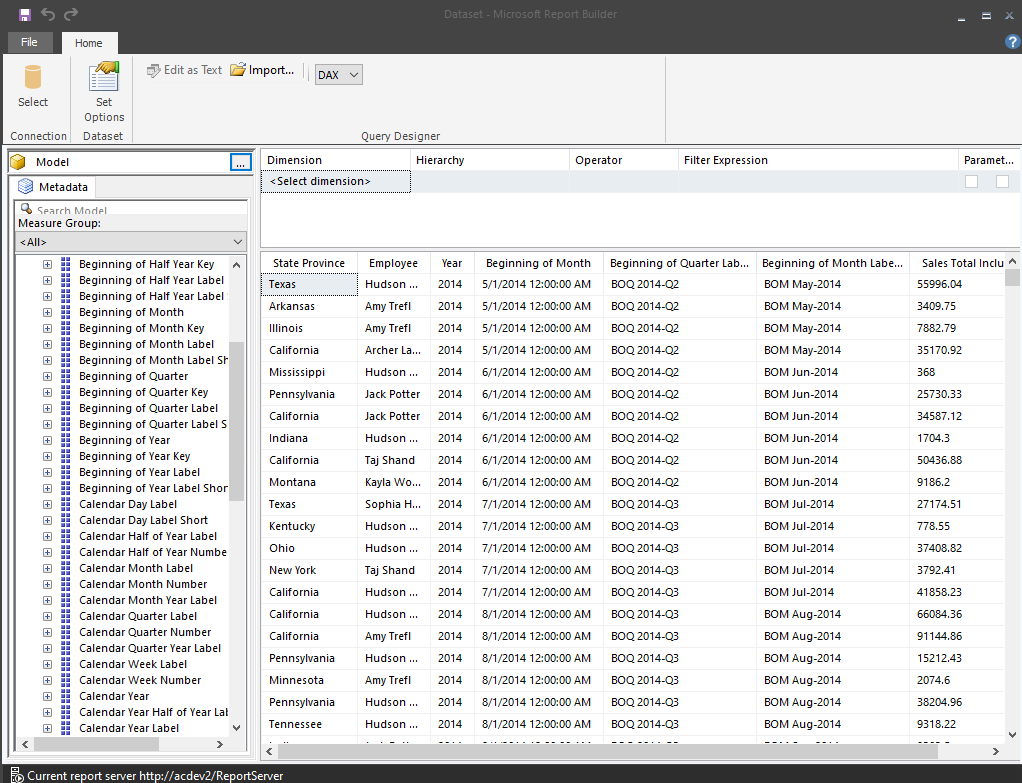
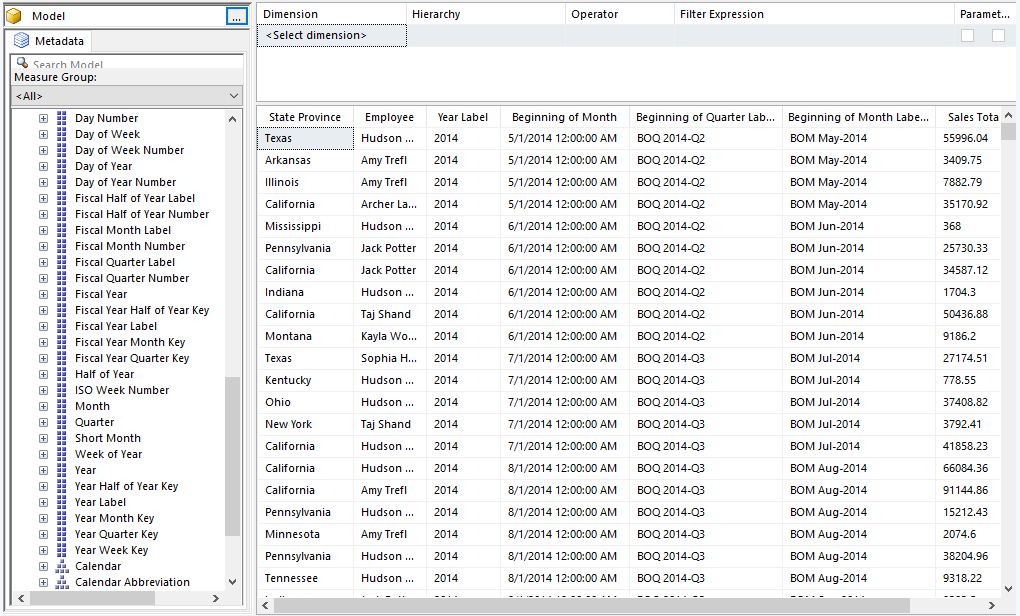
Finished Documentation (for now)

diff --git a/Dashboards/Advanced_Sales_by_Employee_State/03-Linking_Report_Components.md b/Dashboards/Advanced_Sales_by_Employee_State/03-Linking_Report_Components.md
@@ -1,0 +1,77 @@
+# Linking Report components
+
+## Introduction
+
+In this series of instructions, we'll see how to bind the controls on the report to the data that was imported in the first lesson, [01-Adding_Data.md](01-Adding_Data.md).
+
+If you don't have it open, open up the dashboard in the Mobile Report Publisher. Then, switch to the Data tab.
+
+## Selection lists
+
+Let's start with the selection lists. Click on the _Employee_ element.
+
+In the _Data Properties_ at the bottom, change the _Keys_ to **List-Employee**. Because this dataset only has one column, it is automatically populated in the box to the right.
+
+On the very right is an area, _Filter these datasets when a selection is made_. Uncheck the SimulatedTable, then put a check beside **StateEmployeeSales**. In the drop down beside it, change the value to **Employee**.
+
+Your result should look like:
+
+![Employee Selection List Properties](./../images/sales-by-state-employee-003.png)
+
+Now we'll repeat the same steps for the State selection list. Click on the State element on very left.
+
+In the Data Properties change the _Keys_ to **List-State**. Verify the column box to the right now reads **State_Province**.
+
+Finally, in the filter datasets area, uncheck the SimulatedTable, check the **StateEmployeeSales**, and verify the column beside it reads **State_Province**.
+
+## Time Navigator_
+
+Still on the data tab, click on the Time Navigator. Change the _Series for background chart_ to **StateEmployeeSales**. For the metric, make sure it is set to the **Sales_Total_Including_Tax** column.
+
+Go ahead and click the _Options_ button. At the top it will read _Filtered by_ and show Employee and State. This is what we want! But it shows how the selection list filters are connected to the time navigator.
+
+## Simple Data Grid
+
+Now click on the Simple Data Grid in the Report Elements area. Change the _Data for grid view_ to our **StateEmployeeSales** dataset. Click on the _Options_ button beside it.
+
+At the top, under _Filtered by_, you'll see the Employee and State, but you'll also see the time navigator. The time navigator does double duty. First, it provides us valuable information. But, when you click on a time range in it, it will act as a filter for the dataset, affecting the simple data grid and (soon) the gradient heat map.
+
+Now we need to clean up the data grid columns to the very right.
+
+Start by dragging the Year_Label to the top, using the four bar handle to its left. The text box on the right is the text the end user will see as a header in the data grid. Let's change it to just read **Year**.
+
+State_Province is next, but since we only have states lets rename it to just **State**.
+
+The Employee should be next, and its text is fine.
+
+The next field in the list is our Date/Time column, _Beginning_of_Month_. While we have to have this for the time navigator to work, we don't have to display it to the user.
+
+Uncheck the box beside it. While it's not necessary, for organization I like to move hidden fields to the very bottom, so drag this to the bottom of the list.
+
+The next two columns are our beginning of quarter and month labels. Change the text beside these to just **Beginning of Quarter** and **Beginning of Month** respectively.
+
+Finally is the _Sales_Total_Including_Tax_. For the column header, simply remove the underscores, changing them to spaces.
+
+Then, click on the _Options_ button beside it. Change the string format to **Currency**, and click _Done_. Your properties should now look like:
+
+![Simple Data Grid Properties](./../images/sales-by-state-employee-005.png)
+
+## Gradient Heat Map
+
+The last element to configure is the gradient heat map. Click on it in the report elements area. In the data properties, change the _Keys_ to our **StateEmployeeSales** dataset.
+
+Click on the _Options_ beside it. In the options, the time navigator should be checked on, with Employee and State unchecked.
+
+In this case having State checked doesn't make much sense. The user acts as a filter by clicking on a state in the map.
+
+However, it does make sense to add Employee as a filter, so you can see sales for a single employee on the map.
+
+So in the options, add a check beside **Employee**, make sure **Time Navigator** is checked, and leave **State** unchecked.
+
+Beside it, the field should automatically change to the **State_Province**. In the values, verify it is set to our **Sales_Total_Including_Tax**.
+
+## Conclusion
+
+Connecting up all of the data to the elements, and ensuring filtering is configured correctly, is the hardest part of the job.
+
+In the next lesson we'll clean up the report by setting titles and other properties. See how in [04-Cleaning_Up.md](04-Cleaning_Up.md).

diff --git a/Dashboards/Advanced_Sales_by_Employee_State/04-Cleaning_Up.md b/Dashboards/Advanced_Sales_by_Employee_State/04-Cleaning_Up.md
@@ -1,0 +1,47 @@
+# Cleaning Up the Dashboard
+
+In this section we'll go through the various elements on the dashboard, as well as the dashboard itself, and add the finishing touches to make it look like a completed, professional report.
+
+First, you obviously need the report open in Mobile Report Publisher. Then make sure you are on the _Layout_ tab.
+
+If you've not done so, click in the top area and rename the report to **Sales by State and Employee Dashboard**.
+
+## Time Navigator
+
+Unlike most other elements, the Time Navigator does not have a Title property, so there's nothing to update as far as that goes.
+
+However, it does have a _Time Levels_ property. Click the drop down, and it will display additional date levels besides the default of Years and Months. Since we also have a Quarter level in our data, put a check beside the Quarter.
+
+Next, because of the large amounts, the tops of the bars are fairly close together. If you remember, the category chart in the basic dashboard had a similar issue. We'll solve this the same way by turning on the _Adjust Y range to values_ property.
+
+Finally, you may want to go to the _Visualiztion type_ and see what other types are supported, but for this report we'll stick to the default of **Bar**.
+
+## Employee and State
+
+For our selection boxes, we won't be making any changes for our report. However there are a few properties I wanted to point out.
+
+The _Allow multiselect_ does just what is says, it will allow a user to pick multiple items in the drop down.
+
+In most cases you want to leave _Allow select all_ turned on, so your dashboard can run for all data. However there may be times when it may make no sense to return all data, you only want the report for specific items.
+
+In addition, you can also change the label used for All. For example, you could use _All States_ or _All Employees_.
+
+## Simple Data Grid
+
+For this element we'll only change two properties. First, set the title to **Sales Details**.
+
+Next, go over to the _Row numbers_ and change it from Auto to **Hide**.
+
+## Gradient Heat Map
+
+Our final element only needs one change, update the title to read **Sales by State**.
+
+With that set, don't forget to save your dashboard.
+
+## Conclusion
+
+If all went well, your report should now look like:
+
+![Sales by State and Employee Design](./../images/sales-by-state-employee-006.png)
+
+With our cleanup done, we can proceed to the next lesson, [05-Tablet.md](05-Tablet.md), in which we'll create the tablet version of our dashboard.

diff --git a/Dashboards/Advanced_Sales_by_Employee_State/01-Adding_Data.md b/Dashboards/Advanced_Sales_by_Employee_State/01-Adding_Data.md
@@ -1,0 +1,45 @@
+# Advanced Sales by State and Employee Dashboard - Adding data
+
+## Introduction
+
+First, if you've not done so to the Report Portal and use the New menu to create a new Mobile Report. This will be named **Sales by State and Employee**.
+
+## Adding Datasets - State Employee Sales
+
+In the report, switch to the _Data_ tab. Then click **Add Data**.
+
+Pick the report portal as the source, and select State Employee Sales as the dataset to add.
+
+Look at the data, specifically at the Beginning of Month column at the top.
+
+![Beginning of Month Time Indicator](./../images/sales-by-state-employee-001.png)
+
+The clock symbol indicates this is a Date/Time column. This is important, as one of the elements we will be using must have a Date/Time column to work from.
+
+If you have multiple Date/Time columns, only one can be the primary. Click on the gear icon beside the State Employee Sales name at the bottom. In the circle that appears, one of the options reads _Dates_. Click on it.
+
+![Date Options](./../images/sales-by-state-employee-002.png)
+
+Right now it reads _auto_ for both options, which for this report will be fine. The clock icon indicated the Beginning of Month will be the column it uses. You could however click the drop down to pick another field if you had multiple Date/Time columns.
+
+Under _Aggregation time unit_ you can pick a different resolution, for example quaters or months. Again, for this report we'll leave it at **Auto**.
+
+If we made changes we'd need to click _Apply_, but we can hit _Cancel_ in this case. With this I just wanted you to be aware of where these settings can be located.
+
+## Adding Datasets - List - Employee
+
+Click the _Add Data_ again. This time add the dataset **List - Employee**.
+
+## Adding Datasets - List - State
+
+Finally, click _Add Data_ one more time, and add the **List - State** dataset.
+
+## Conclusion
+
+That's it, just three datasets. The two List ones will be used to supply data to drop downs that will serve as filters.
+
+All of the remaining report elements will be sourced from a single dataset, State Employee Sales.
+
+This is an important concept. When you apply a filter to a dataset, all of the report elements bound to that dataset will have the filter applied. 
+
+You'll see that in action once the dashboard has been created. For now move onto the next steps, [02-Building_the_Dashboard.md](02-Building_the_Dashboard.md).

diff --git a/Dashboards/Advanced_Sales_by_Employee_State/06-Phone.md b/Dashboards/Advanced_Sales_by_Employee_State/06-Phone.md
@@ -1,0 +1,35 @@
+# Building the Phone Report
+
+## Introduction
+
+In this section we will take our dashboard and reformat it for the phone. Naturally start with the dashboard open in Mobile Report Publisher. If you've not done so, use the white box drop down in the upper right side of the report to switch to Phone mode.
+
+## Designing the Phone Report
+
+Start with the time navigator. Place it in the top left corner, and expand to two high by four wide.
+
+Under it place the Employee selector, make it one high and two wide.
+
+The State selector should go next to it, also one high and two wide.
+
+Finally the Sales Details should take up the remaining space.
+
+For this dashboard we will not be using the gradient heat map, due to a lack of usable space.
+
+## Choosing a Color Theme
+
+Use the white box drop down to return to the main dashboard design.
+
+Next to it is a color bar drop down. Using it you can select from many color palettes for your report. For this demo I'm going to scroll to the bottom and pick one named **Tech**, but you are free to choose one that closely aligns to your company color scheme, or of course just use the default one.
+
+Use the white box drop down to rotate to the phone and tablet layouts, and you'll see the color theme carries through to all of them.
+
+One word of advice, pick a color theme with the assistance of your customers, then use that same theme for all of your dashboards from now on. That will give your dashboards a consistent look and feel.
+
+Save your work, then hit Preview. Here is the final phone dashboard with the Tech theme applied.
+
+![Final Phone Dashboard](./../images/sales-by-state-employee-008.png)
+
+## Conclusion
+
+Congratulations, you've now completed the advanced dashboard!

diff --git a/DataSets/Sales_Dashboard_Report/03-Sales_by_State_and_Invoice_Year.md b/DataSets/Sales_Dashboard_Report/03-Sales_by_State_and_Invoice_Year.md
@@ -40,6 +40,35 @@ Click the **Click to execute the query** link to ensure the query runs without i
 
 ![Sales by State and Invoice Year](../images/sales-by-state-invoice-year-01.png)
 
+## Sort Order
+
+Now we have a minor issue. The data is not organized into any meaningful order. While the user will have the ability to change the sorting in the simple data grid, it would be nice if it came sorted already to meet the need of our user.
+
+They have said sorting by year first, then state, makes the most sense. We can accomplish this with a little DAX magic.
+
+In the designer, click the Design Mode button.
+
+![](./images/../../images/employee-list-03.png)
+
+This will switch your to the DAX editor. Don't worry if you don't know DAX, what we'll do is very simple.
+
+By default you'll see the query that the report designer created.
+
+```
+EVALUATE SUMMARIZECOLUMNS('City'[State Province], 'Sale Invoice Date'[Year Label], "Sales Total Including Tax", [Sales Total Including Tax])
+```
+
+All we have to do is add an ORDER BY clause to the end, and list the columns to sort by.
+
+Note we can append it to the end of the existing line, or hit ENTER and come to a new line to improve readability.
+
+```
+EVALUATE SUMMARIZECOLUMNS('City'[State Province], 'Sale Invoice Date'[Year Label], "Sales Total Including Tax", [Sales Total Including Tax]) 
+ORDER BY 'Sale Invoice Date'[Year Label], 'City'[State Province]
+```
+
+You can use the execute query link, or click the big red exclamation mark, to run the new query. Once you verified it works you can save it.
+
 ## Save the query
 
 Use the File menu, the pick Save.

diff --git a/DataSets/Sales_By_Employee_State_Report/02-List_Employee.md b/DataSets/Sales_By_Employee_State_Report/02-List_Employee.md
@@ -34,13 +34,40 @@ Click the **Click to execute the query** link to ensure the query runs without i
 
 ![Employee List Successful Query](../images/employee-list-01.png)
 
+Note we have an issue though, the names are not in alphabetical order. We can fix this in our query, but will have to edit the DAX that report builder generates.
+
+## Sorting the Output
+
+In the query designers toolbar, click on the Design Mode button.
+
+![Employee List Design Mode](./images/../../images/employee-list-03.png)
+
+This will switch to a mode where you can edit the generated DAX query. Don't worry if you aren't fluent in DAX, this is a simple fix.
+
+The generated query looks like:
+
+```
+EVALUATE SUMMARIZECOLUMNS('Employee'[Employee])
+```
+We simply need to add an `Order By` to the output, along with the column name to sort on.
+
+```
+EVALUATE SUMMARIZECOLUMNS('Employee'[Employee]) ORDER BY 'Employee'[Employee]
+```
+
+Be careful not to click the Design Mode button again, as it will regenerate the original query and you'll lose your modification!
+
+At the bottom simply click Execute Query to test, and you should now see the results sorted by their first name.
+
+![Sorted Output](./images/../../images/employee-list-04.png)
+
 ## Save the query
 
 Use the File menu, the pick Save.
 
 In the **Look in** area of the dialog, make sure it is set to your report server. If not use the folder icon to the right in order to locate your server.
 
-Name the file **List Employee.rsd** then click Save.
+Name the file **List - Employee.rsd** then click Save.
 
 ![List Employee Save Dialog](../images/employee-list-02.png)
 

diff --git a/Dashboards/Advanced_Sales_by_Employee_State/05-Tablet.md b/Dashboards/Advanced_Sales_by_Employee_State/05-Tablet.md
@@ -1,0 +1,31 @@
+# Building the Tablet Report
+
+## Introduction
+
+In this section we will take our dashboard and reformat it for the tablet. Naturally start with the dashboard open in Mobile Report Publisher.
+
+## Designing the Tablet Report
+
+On the _Layout_ tab, look in the upper right corner. You'll see a white box attached to a drop down. Click it, and change to _Tablet_.
+
+Your dashboard designer will now update. On the left you will see the existing Report Elements. In the middle is a grid square, 8 rows by 6 columns (by default).
+
+Take the time navigator and place it in the very upper left. Now expand it to two high by six wide.
+
+Right under it place the Employee selector, and make it one high by two wide.
+
+Next, place the State selector under Employee, making it one high by two side as well.
+
+To the right of the Employee selector, place the gradient heat map. Make it four wide by three high.
+
+This will leave a one high by two wide gap under the state selector. That's OK, you are allowed to have unused space on your dashboard if that makes for a good user experience.
+
+Under that, drop the simple data grid. Expand so it is three high by six wide.
+
+Save your work and preview, the output should look like:
+
+![Table Preview](./../images/sales-by-state-employee-007.png)
+
+## Conclusion
+
+We're getting close! Let's wrap things up in our next lesson where we'll layout the phone design in [06-Phone.md](06-Phone.md).

diff --git a/Dashboards/Advanced_Sales_by_Employee_State/02-Building_the_Dashboard.md b/Dashboards/Advanced_Sales_by_Employee_State/02-Building_the_Dashboard.md
@@ -1,0 +1,29 @@
+# Building the Advanced Dashboard
+
+## Introduction
+
+In this section, we'll quickly create the dashboard by adding the report elements to it.
+
+If you've not done so, click in the title area and rename it to **Sales by State and Employee Dashboard**.
+
+## Placing the elements
+
+Here's our goal:
+
+![Sales by State Employee Design](../images/sales-by-state-employee-004.png)
+
+In the layout pane on the left, grab the _Time Navigator_, and drop it in the top right corner of the designer. Resize it to two blocks high by eight wide.
+
+Now grab a _Selection list_ and place it in the top next to the time navigator. Leave it at one block high and but make it two wide.
+
+While you are here, go to the _Visual properties_ at the bottom and change the Title to **Employee**. This will make it easier when we tie the selection list to a dataset in the next lesson.
+
+Next, take another _Selection list_ and place it directly under the Employee one. Change the title to **State** and make it two wide.
+
+The _Simple data grid_ comes next. Place one right under the time navigator. Size it to seven wide and three high.
+
+The final control is a _Grandient heat map_. Place it beside the simple data grid, and make it three wide and high.
+
+## Conclusion
+
+That was fast and easy. In the next lesson we'll make the magic happen by linking the report components to the data, so proceed to [](http://)

diff --git a/DataSets/Sales_By_Employee_State_Report/03-List_State.md b/DataSets/Sales_By_Employee_State_Report/03-List_State.md
@@ -34,6 +34,18 @@ Click the **Click to execute the query** link to ensure the query runs without i
 
 ![State List Successful Query](../images/state-list-01.png)
 
+## Sorting the Output
+
+As you see, the data is not sorted alphabetically. We'll use the same technique we used to sort the Employees here.
+
+Click the Design Mode button. In the design mode, we'll append an Order By to the end of the query. Your new query should look like:
+
+```
+EVALUATE SUMMARIZECOLUMNS('City'[State Province]) ORDER BY 'City'[State Province]
+```
+
+Click the execute query at the bottom to ensure your query has no syntax issues, and it now sorts the states alphabetically.
+
 ## Save the query
 
 Use the File menu, the pick Save.

diff --git a/Dashboards/Basic_Sales_Dashboard/03-Linking_Report_Components.md b/Dashboards/Basic_Sales_Dashboard/03-Linking_Report_Components.md
@@ -1,6 +1,6 @@
 # Linking Report components
 
-In this series of instrucitons, we'll see how to bind the controls on the report to the data that was imported in the previous file [02-Adding_Data.md](02-Adding_Data.md).
+In this series of instructions, we'll see how to bind the controls on the report to the data that was imported in the previous file [02-Adding_Data.md](02-Adding_Data.md).
 
 If you don't have it open, open up the dashboard in the Mobile Report Publisher.
 

diff --git a/DataSets/Sales_By_Employee_State_Report/01-State_Employee_Sales_Data.md b/DataSets/Sales_By_Employee_State_Report/01-State_Employee_Sales_Data.md
@@ -36,7 +36,7 @@ Go to the **Employee** dimension, then drag its **Employee** attribute onto the 
 
 Next, expand the **Sales Invoice Date**. Drag the following fields onto the query designer.
 
-* Year
+* Year Label (make sure to pick Year Label, and not just Year)
 * Beginning of Quarter Label Short
 * Beginning of Month Label Short
 * Sales Total Including Tax

diff --git a/Dashboards/Basic_Sales_Dashboard/06-Phone.md b/Dashboards/Basic_Sales_Dashboard/06-Phone.md
@@ -1,4 +1,4 @@
-# Building the Tablet Report
+# Building the Phone Report
 
 ## Introduction
 
